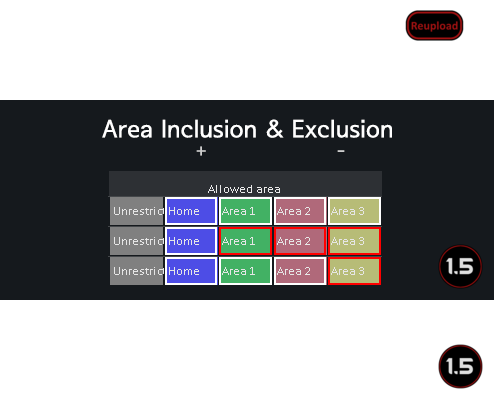
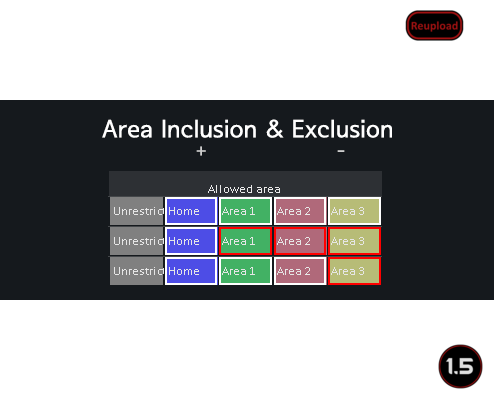
Fixed duplicated preview. Tired...

Changed region(s): [[0.8806, 0.6, 1.0, 0.72]]

diff --git a/README.md b/README.md
@@ -35,6 +35,4 @@ https://github.com/gguake/RWMod-AreaInclusionExclusion
 
  
 
-[![Image](https://img.shields.io/github/v/release/emipa606/AreaInclusionAndExclusion?label=latest%20version&style=plastic&color=9f1111&labelColor=black)](https://steamcommunity.com/sharedfiles/filedetails/changelog/) | tags: area management 
-
 [![Image](https://img.shields.io/github/v/release/emipa606/AreaInclusionAndExclusion?label=latest%20version&style=plastic&color=9f1111&labelColor=black)](https://steamcommunity.com/sharedfiles/filedetails/changelog/3371333807) | tags: area management
